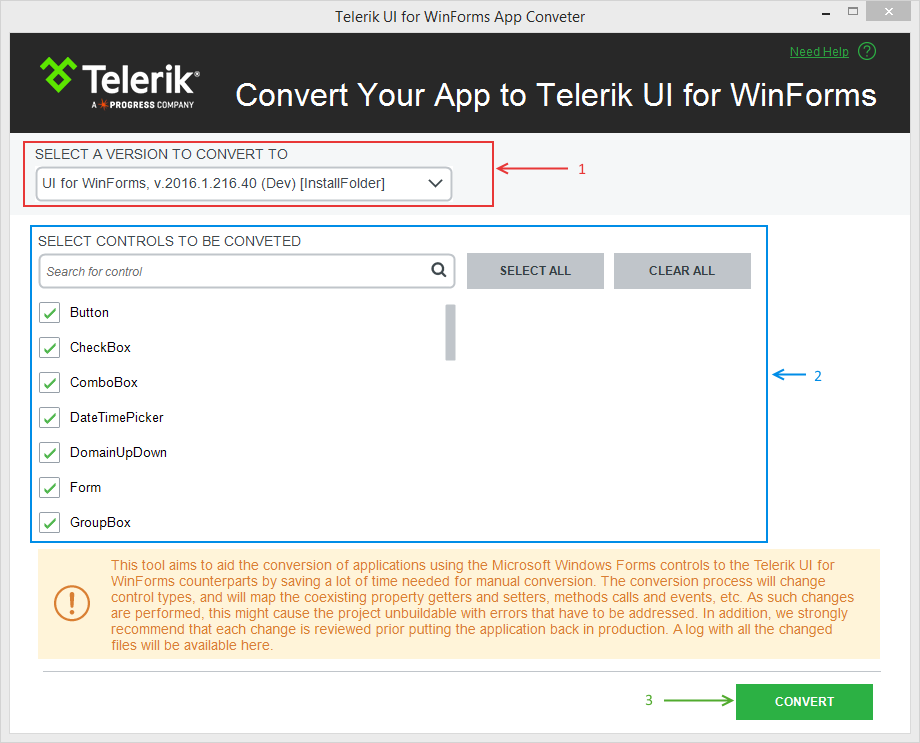
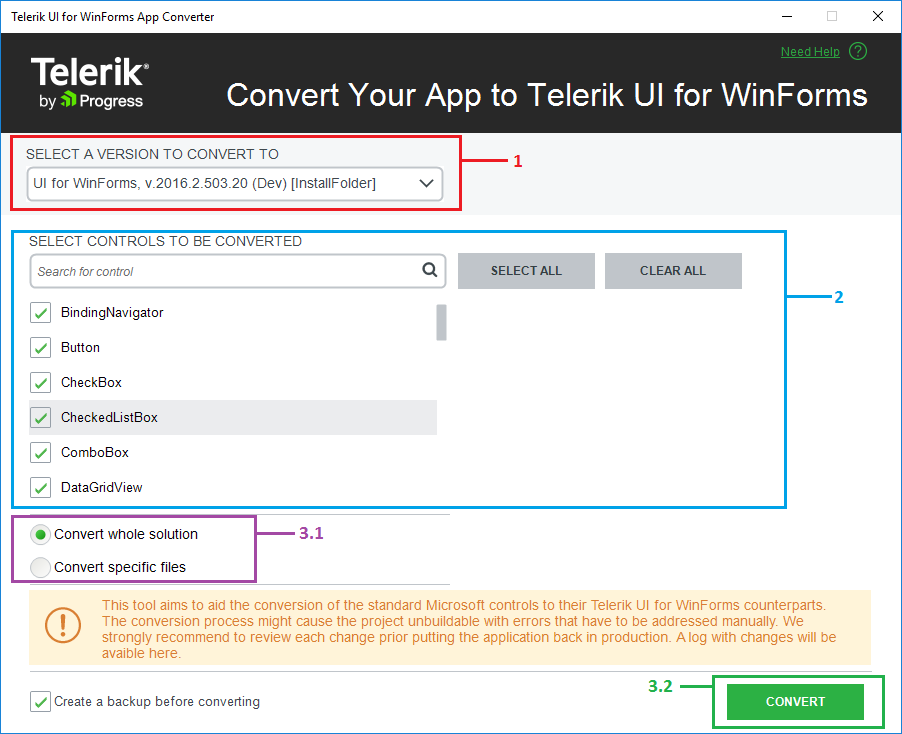
New Conversion tool help

diff --git a/winforms-converter/step-by-step-tutorial.md b/winforms-converter/step-by-step-tutorial.md
@@ -14,33 +14,43 @@ This article will guide you through the process of converting the Microsoft Wind
 
 >note We strongly recommend you using a source control system like TFS or Git. This will allow you to review the changes and restore to previous version if needed. 
 
-1. Before starting you need to open a solution which contains a project that is using standard Microsoft Winforms controls. This will enable the converter option in the `UI for WinForms menu` item.
+1\. Before starting you need to open a solution which contains a project that is using standard Microsoft Winforms controls. This will enable the converter option in the `UI for WinForms menu` item.
 
-    ![winforms-converter-step-by-step-tutorial001](images/winforms-converter-step-by-step-tutorial001.png)
+![winforms-converter-step-by-step-tutorial001](images/winforms-converter-step-by-step-tutorial001.png)
 
-2. Clicking the menu item will open the following window where you can perform the following actions: 
+2\. Clicking the menu item will open the following window where you can perform the following actions: 
 
-    1\. Select a version - you can choose between all installed versions, including the ones for .NET 2.0 and .NET 4.0.
+&nbsp;&nbsp;&nbsp;&nbsp;&nbsp;1\. Select a version - you can choose between all installed versions, including the ones for .NET 2.0 and .NET 4.0.
 
-    2\. Select controls - you can choose which controls you can convert. For this example leave all controls selected. 
+&nbsp;&nbsp;&nbsp;&nbsp;&nbsp;2\. Select controls - you can choose which controls you can convert. For this example leave all controls selected.  
 
-    3\. The `Convert` button - pressing this button will start the conversion process. Please note that you cannot go back to this window.  
+&nbsp;&nbsp;&nbsp;&nbsp;&nbsp;3\.1 *Convert whole solution* and *Convert specific files* options - you can control whether to convert the whole application or specify which files exactly to be converted. 
 
-    ![winforms-converter-step-by-step-tutorial002](images/winforms-converter-step-by-step-tutorial002.png)
+&nbsp;&nbsp;&nbsp;&nbsp;&nbsp;3\.2 The `Convert` button - pressing this button will start the conversion process. Please note that you cannot go back to this window.  
 
-3. Press `Convert` and wait until the project is converted. Once the conversion process is complete, the summary dialog will appear. This will allow you to see which files are converted. You can open the generated log as well.
+![winforms-converter-step-by-step-tutorial002](images/winforms-converter-step-by-step-tutorial002.png)
 
-    ![winforms-converter-step-by-step-tutorial003](images/winforms-converter-step-by-step-tutorial003.png)
+3\.1 If you choose the *Convert specific files* option, press `Next`.
+	
+![winforms-converter-step-by-step-tutorial007](images/winforms-converter-step-by-step-tutorial007.png)
 
-    At this step you can compare the old and the converted files. To do that just click the __`What's Changed`__ link in the file list. This will open the files tabs in Visual Studio and you will be able to review the changed code.
+You will be navigated to a step to choose which files to be converted. Then press `Convert`:
+
+![winforms-converter-step-by-step-tutorial008](images/winforms-converter-step-by-step-tutorial008.png)
+
+3\.2 If you choose the *Convert whole solution* option, press `Convert` and wait until the project is converted. Once the conversion process is complete, the summary dialog will appear. This will allow you to see which files are converted. You can open the generated log as well.
+
+![winforms-converter-step-by-step-tutorial003](images/winforms-converter-step-by-step-tutorial003.png)
+
+At this step you can compare the old and the converted files. To do that just click the __`What's Changed`__ link in the file list. This will open the files tabs in Visual Studio and you will be able to review the changed code.
     
-    ![winforms-converter-step-by-step-tutorial004](images/winforms-converter-step-by-step-tutorial004.png)
+![winforms-converter-step-by-step-tutorial004](images/winforms-converter-step-by-step-tutorial004.png)
 
-4. Click `Close` and open the designer in the converted project. You will see that the project and the controls are now converted. The following image shows the application before and after the conversion process.
+4\. Click `Close` and open the designer in the converted project. You will see that the project and the controls are now converted. The following image shows the application before and after the conversion process.
 
-    ![winforms-converter-step-by-step-tutorial005](images/winforms-converter-step-by-step-tutorial005.png)
+![winforms-converter-step-by-step-tutorial005](images/winforms-converter-step-by-step-tutorial005.png)
 
-5. The final step is to resolve any compile time errors. There are properties and methods which do not have analogs in our implementation. Since the converter does not remove the code for these, you will get a compile time error:
+5\. The final step is to resolve any compile time errors. There are properties and methods which do not have analogs in our implementation. Since the converter does not remove the code for these, you will get a compile time error:
     ![winforms-converter-step-by-step-tutorial006](images/winforms-converter-step-by-step-tutorial006.png)
 
 >note After the conversion process is completed, you should check if all existing functionality is working as before.

diff --git a/winforms-converter/supported-controls/richtextbox.md b/winforms-converter/supported-controls/richtextbox.md
@@ -1,0 +1,83 @@
+---
+title: RichTextBox
+page_title: RichTextBox | WinForms Converter
+description: This article explains which standard .NET controls properties are removed and which are replaced with similar equivalents. 
+slug: winforms/winforms-converter/supported-controls/richtextbox
+tags: covert, winforms, button
+published: True
+position: 1
+---
+
+# RichTextBox
+
+__RichTextBox__ is converted to [RadRichTextEditor]({%slug winforms/richtexteditor%}). The following tables describe which properties, methods and events are removed and which are replaced with similar equivalents.
+
+>important When the project that is being converted has target framework less than 4.0 and the user selects UI for WinForms[Version].__20__ the following message box will appear:
+
+>caption Figure 1: Converting System.Windows.Forms.RichTextBox
+![winforms-converter-supported-control-richtextbox001](images/winforms-converter-supported-control-richtextbox001.png)
+
+>important Since __RadRichTextEditor__ is available only for .NET 4.0, the conversion tool requires WinForms[Version].__40__. If you press `Return` you will be allowed to select another target version. If you press `Continue`, the conversion tool will proceed, but the System.Windows.Forms.RichTextBox won't be converted.
+>
+
+|Properties|Action|RadControls Equivalent|
+|---|---|---|
+|AutoWordSelection|Produces Error||
+|BorderStyle|Removed||
+|BulletIndent|Produces Error||
+|DetectUrls|Replaced with|AutoInsertHyperlinks|
+|EnableAutoDragDrop|Produces Error||
+|HideSelection|Produces Error||
+|MaxLength|Produces Error||
+|Modified|Produces Error||
+|Multiline|Produces Error||
+|ReadOnly|Replaced with|IsReadOnly|
+|RightMargin|Produces Error||
+|SelectionColor|Produces Error||
+|SelectionBackColor|Produces Error||
+|SelectionBullet|Produces Error||
+|SelectionFont|Produces Error||
+|SelectedText|Produces Error||
+|SelectionProtected|Produces Error||
+|ScrollBars|Produces Error||
+|ShortcutsEnabled |Produces Error||
+|ShowSelectionMargin|Produces Error||
+|WordWrap |Produces Error||
+|ZoomFactor|Produces Error||
+
+|Methods|Action|RadControls Equivalent|
+|---|---|---|
+|AppendText|Replaced with|Insert|
+|CanPaste|Produces Error|
+|Clear|Replaced with|ResetText|
+|ClearUndo|Replaced with|Document.History.Clear|
+|DeselectAll|Replaced with|Document.Selection.Clear|
+|GetFirstCharIndexFromLine|Produces Error||
+|GetCharFromPosition|Produces Error||
+|GetCharIndexFromPosition|Produces Error||
+|GetFirstCharIndexOfCurrentLine|Produces Error||
+|GetPositionFromCharIndex|Produces Error||
+|LoadFile|Produces Error||
+|SaveFile|Produces Error||
+|ScrollToCaret|Produces Error||
+|SelectAll|Replaced with|Document.Selection.SelectAll|
+
+|Events|Action|RadControls Equivalent|
+|---|---|---|
+|AcceptsTabChanged|Produces Error||
+|BorderStyleChanged|Produces Error||
+|ContentsResized |Produces Error||
+|Hscroll|Produces Error||
+|HideSelectionChanged|Produces Error||
+|ImeChange|Produces Error||
+|LinkClicked|Produces Error||
+|ModifiedChanged|Produces Error||
+|MultilineChanged|Produces Error||
+|Protected|Produces Error||
+|ReadOnlyChanged|Produces Error||
+|VScroll |Produces Error||
+
+## See Also
+
+* [Step-by-step tutorial]({%slug winforms/winforms-converter/step-by-step-tutorial%})
+* [Requirements] ({%slug winforms/winforms-converter/requirements%})

diff --git a/richtexteditor/radrichtexteditorruler.md b/richtexteditor/radrichtexteditorruler.md
@@ -13,7 +13,7 @@ previous_url: richtexteditor-richtexteditorruler
 
 
 
-__RadRichTextEditorRuler__ is a control providing ruler functionality to [RadRichTextEditor]({%slug winforms/richtexteditor-%}). The rulers allow you to change the paragraph, page margins or align the paragraphs in the document.![richtexteditor-richtexteditorruler 001](images/richtexteditor-richtexteditorruler001.png)
+__RadRichTextEditorRuler__ is a control providing ruler functionality to [RadRichTextEditor]({%slug winforms/richtexteditor%}). The rulers allow you to change the paragraph, page margins or align the paragraphs in the document.![richtexteditor-richtexteditorruler 001](images/richtexteditor-richtexteditorruler001.png)
 
 >note Rulers only apply to the [Paged]({%slug winforms/richtexteditor-/document-elements/raddocument%}) document layout mode of the __RadRichtextEditor.__ 
 >

diff --git a/richtexteditor/overview.md b/richtexteditor/overview.md
@@ -2,7 +2,7 @@
 title: Overview 
 page_title: RichTextEditor  | UI for WinForms Documentation
 description: RichTextEditor 
-slug: winforms/richtexteditor-
+slug: winforms/richtexteditor
 tags: richtexteditor,
 published: True
 position: 0
